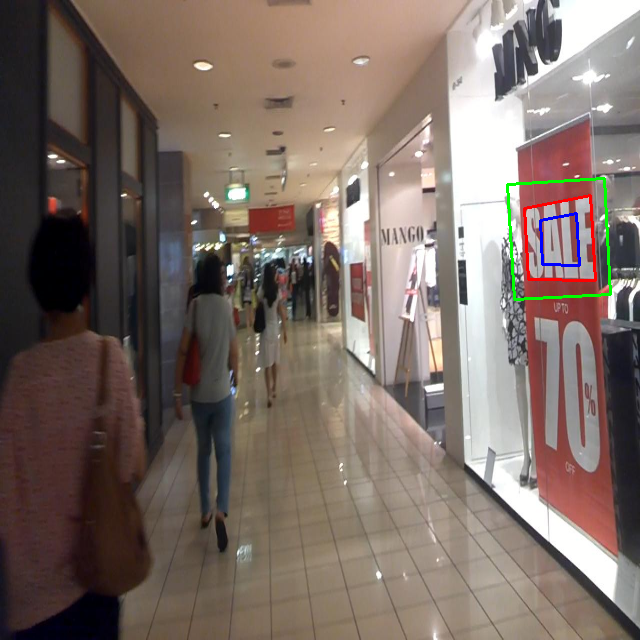
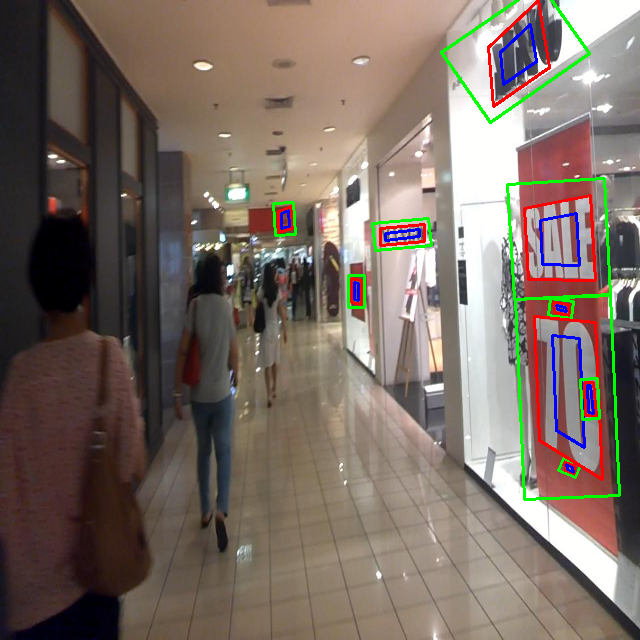
update: data docs

diff --git a/tests/test_shrink_map.py b/tests/test_shrink_map.py
@@ -18,22 +18,21 @@ label_generate = LabelGenerator()
 shrink_ratio = 0.4
 
 for i in tqdm(range(20,30), desc="Debug for shrink map..."):
-    image, label = dataset[i]
+    image, labels = dataset[i]
     image = DataUtils.image_to_numpy(image)
-    polygon = label[0]
+    for polygon in labels:
+        shrink2 = shrink_polygon_pyclipper(polygon, shrink_ratio)
+        image = Visualization.draw_polygon(image, polygon, color=(0, 0, 255))
+        image = Visualization.draw_polygon(image, shrink2, color=(255, 0, 0))
 
-    shrink2 = shrink_polygon_pyclipper(polygon, shrink_ratio)
-    image = Visualization.draw_polygon(image, polygon, color=(0, 0, 255))
-    image = Visualization.draw_polygon(image, shrink2, color=(255, 0, 0))
-
-    poly = Polygon(polygon)
-    distance = poly.area * (1 - np.power(shrink_ratio, 2)) / poly.length
-    offset = pyclipper.PyclipperOffset()
-    offset.AddPath(polygon, pyclipper.JT_ROUND, pyclipper.ET_CLOSEDPOLYGON)
-    expanded = np.array(offset.Execute(distance))
-    bbox = cv2.minAreaRect(expanded)
-    points = cv2.boxPoints(bbox)
-    image = Visualization.draw_polygon(image, points, color=(0, 255, 0))
+        poly = Polygon(polygon)
+        distance = poly.area * (1 - np.power(shrink_ratio, 2)) / poly.length
+        offset = pyclipper.PyclipperOffset()
+        offset.AddPath(polygon, pyclipper.JT_ROUND, pyclipper.ET_CLOSEDPOLYGON)
+        expanded = np.array(offset.Execute(distance))
+        bbox = cv2.minAreaRect(expanded)
+        points = cv2.boxPoints(bbox)
+        image = Visualization.draw_polygon(image, points, color=(0, 255, 0))
     Visualization.save_debug(image, cfg['Debug']['label_generation'], f'shrink_map_{i}.png')
 
     # import ipdb; ipdb.set_trace()

diff --git a/src/data/label_generator.py b/src/data/label_generator.py
@@ -48,7 +48,6 @@ class LabelGenerator(object):
         polygons = self.validate_polygons(polygons, h, w)
         gt = np.zeros((h, w), dtype=np.float32)
         mask = np.ones((h, w), dtype=np.float32)
-        # import ipdb; ipdb.set_trace()
         for i in range(len(polygons)):
             polygon = polygons[i]
             height = max(polygon[:, 1]) - min(polygon[:, 1])

diff --git a/tests/test_label_generation.py b/tests/test_label_generation.py
@@ -11,7 +11,7 @@ dataset = ICDAR2015Dataset('Eval')
 label_generate = LabelGenerator()
 
 
-for i in tqdm(range(10), desc="Debug for Label Generation ..."):
+for i in tqdm(range(30), desc="Debug for Label Generation ..."):
     image, label = dataset[i]
     image = DataUtils.image_to_numpy(image)
     image, gt, mask = LabelGenerator()(image, label)

diff --git a/src/models/backbone/resnet.py b/src/models/backbone/resnet.py
@@ -1,0 +1,5 @@
+from __future__ import division
+from __future__ import print_function
+from __future__ import absolute_import
+
+

diff --git a/src/data/Label_generation.md b/src/data/Label_generation.md
@@ -55,9 +55,8 @@ def shrink_polygon_pyclipper(polygon, shrink_ratio):
 
 And some examples from the `Icdar2015` dataset with $n$ = 4 (number of vertexes):
 
-<p align="center">
-    <img src="/images/shrink_map_21.png">
-    <img src="/images/shrink_map_27.png">
-    <img src="/images/shrink_map_4.png">
-</p>
+| <p align=center>threshold map</p>| <p align='center'>probability map</p> | 
+|--|--|
+| <img src="../../images/shrink_map_21.png" width=320> | <img src="../../images/21_gt.png" width=320> |
+| <img src="../../images/shrink_map_27.png" width=320> | <img src="../../images/27_gt.png" width=320> |
 
